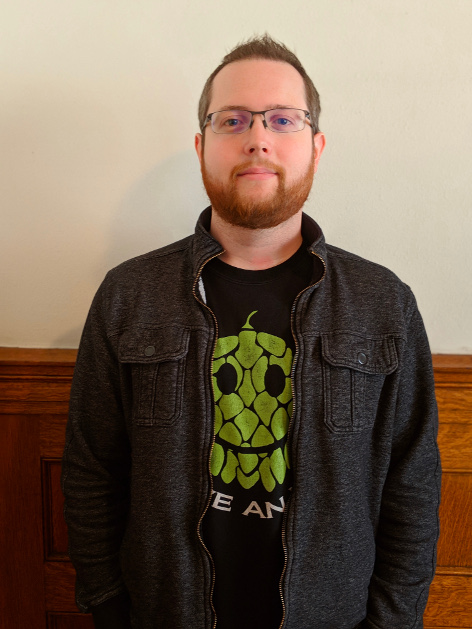
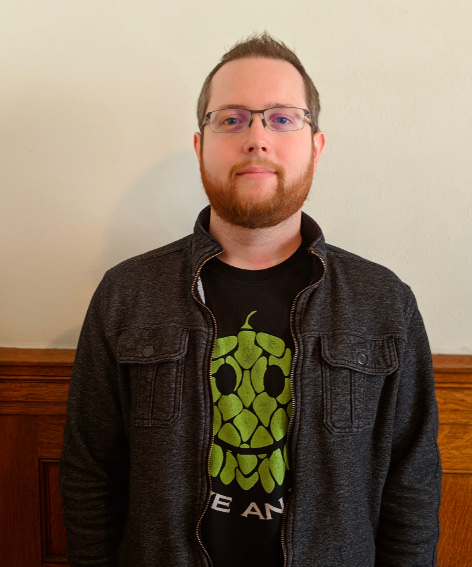
shrank new images, put background behind text on bios, updated image links to shrunk images

diff --git a/hugo/themes/hugo-hero-theme/assets/scss/components/_page-who.scss b/hugo/themes/hugo-hero-theme/assets/scss/components/_page-who.scss
@@ -167,7 +167,9 @@
         &:hover .feature-bio {
             visibility: visible;
             transition-delay: 1s;
-            opacity: 1;
+            background-color: #2D3264;
+            // background-color: #D96261;
+            opacity: .9;
         }
         &:hover {
             filter: grayscale(0%);
